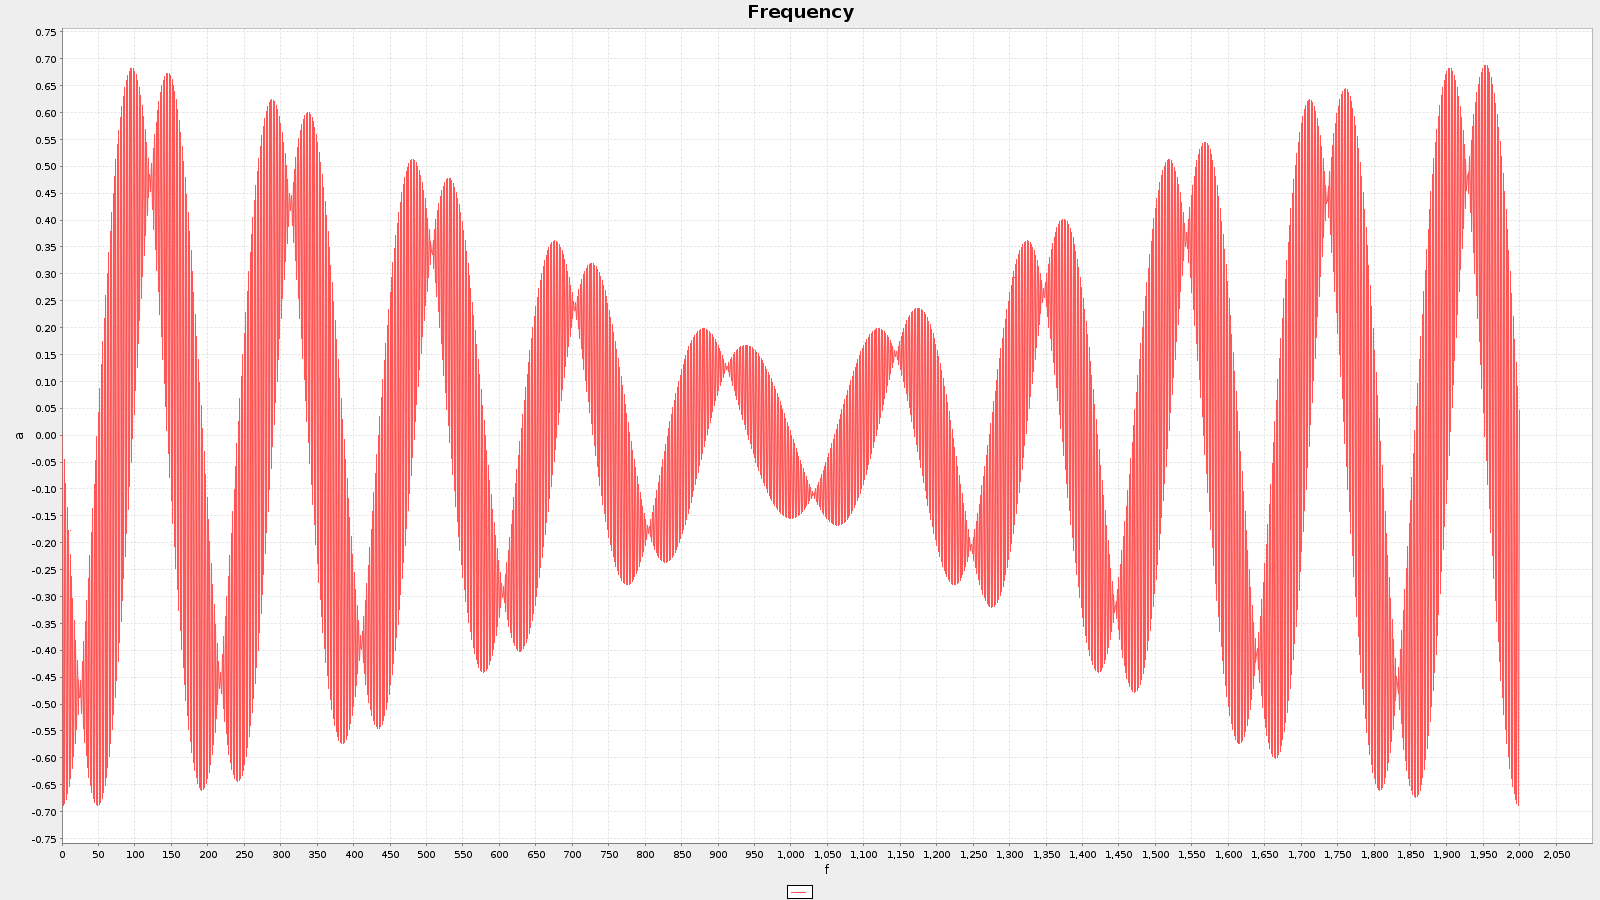
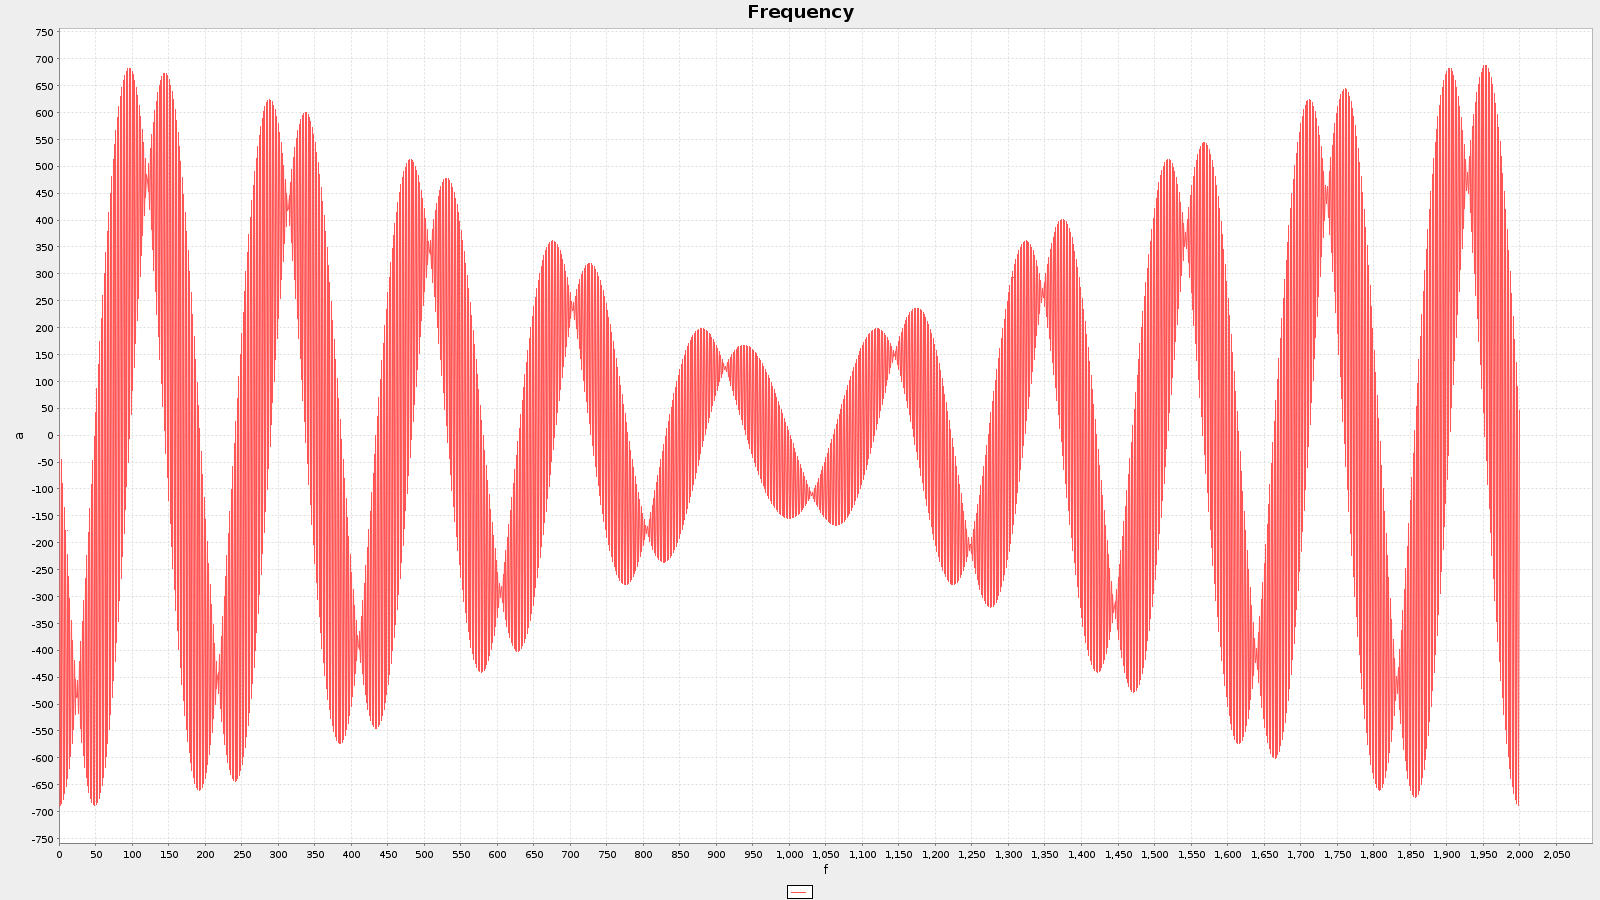
filter works

diff --git a/channel-simulation/java-channel-simulation/src/main/java/main/Filter.java b/channel-simulation/java-channel-simulation/src/main/java/main/Filter.java
@@ -10,32 +10,20 @@ public class Filter {
     // number of samples to store
     private final int BACKLOG_SIZE = 1000;
     private final ArrayList<Double> samples = new ArrayList<>();
-    private boolean graphed = false;
-    private int count = 0;
 
     private void filter(double[] fft) {
         for (int i = 0; i < Math.min(fLow, fft.length / 2); i++) {
             fft[i * 2] = 0;
-            fft[i*2 + 1] = 0;
+            fft[i * 2 + 1] = 0;
         }
 
-        for (int i = fHigh; i < fft.length / 2 ; i++) {
-            fft[i*2] = 0;
-            fft[i*2 + 1] = 0;
+        for (int i = fHigh; i < fft.length / 2; i++) {
+            fft[i * 2] = 0;
+            fft[i * 2 + 1] = 0;
         }
-    }
-
-    private double[] absolute(double[] data) {
-        double[] output = new double[data.length / 2];
-
-        for (int i = 0; i < output.length; i++)
-            output[i] = Math.sqrt(data[i * 2] * data[i * 2] + data[i * 2 + 1] * data[i * 2 + 1]);
-
-        return output;
     }
 
     public double output(double sample) {
-        count++;
         samples.add(0, sample);
 
         if (samples.size() > BACKLOG_SIZE) samples.remove(samples.size() - 1);
@@ -46,38 +34,11 @@ public class Filter {
         for (int i = 0; i < samples.size(); i++) fft[i] = samples.get(i);
         DoubleFFT_1D transform = new DoubleFFT_1D(samples.size());
         transform.realForward(fft);
+        filter(fft);
+        transform.complexInverse(fft, false);
 
-        if (!graphed && count == 1333) {
-            ArrayList<XYDataItem> data = new ArrayList<>();
-            for (int i = 0; i < 25; i++) {
-                data.add(new XYDataItem(i, fft[i]));
-            }
 
-            Plotter.plot("Frequency", "../assets/prefilter.png", "f", "a", new XYDataItem(1600, 900), data);
-            filter(fft);
-
-            data = new ArrayList<>();
-            for (int i = 0; i < 25; i++) {
-                data.add(new XYDataItem(i, fft[i]));
-            }
-            Plotter.plot("Frequency", "../assets/filter.png", "f", "a", new XYDataItem(1600, 900), data);
-            transform.realInverseFull(fft, true);
-            //fft = absolute(fft);
-
-            data = new ArrayList<>();
-            for (int i = 0; i < fft.length; i++) {
-                data.add(new XYDataItem(i, fft[i]));
-            }
-            Plotter.plot("Frequency", "../assets/filterout.png", "f", "a", new XYDataItem(1600, 900), data);
-
-            graphed = true;
-        } else {
-            filter(fft);
-            transform.realInverseFull(fft, true);
-            //fft = absolute(fft);
-        }
-
-        return fft[fft.length - 2];
+        return fft[fft.length - 2] / (double) (samples.size() / 2);
     }
 
     public Filter(int fLow, int fHigh) {

diff --git a/channel-simulation/java-channel-simulation/src/main/java/main/Main.java b/channel-simulation/java-channel-simulation/src/main/java/main/Main.java
@@ -74,11 +74,12 @@ public class Main {
     }
 
     public static void main(String[] args) {
-        Filter filter = new Filter(3, 6);
+        Filter filter = new Filter(0, 3);
         ArrayList<XYDataItem> data = new ArrayList<>();
 
+
         for (double t = 0; t < 10; t += 0.001) {
-            double f = Math.sin(2 * Math.PI * 5 * t);
+            double f = Math.sin(2 * Math.PI * 5 * t) + Math.sin(2 * Math.PI * t);
             f = filter.output(f);
             data.add(new XYDataItem(t, f));
         }
